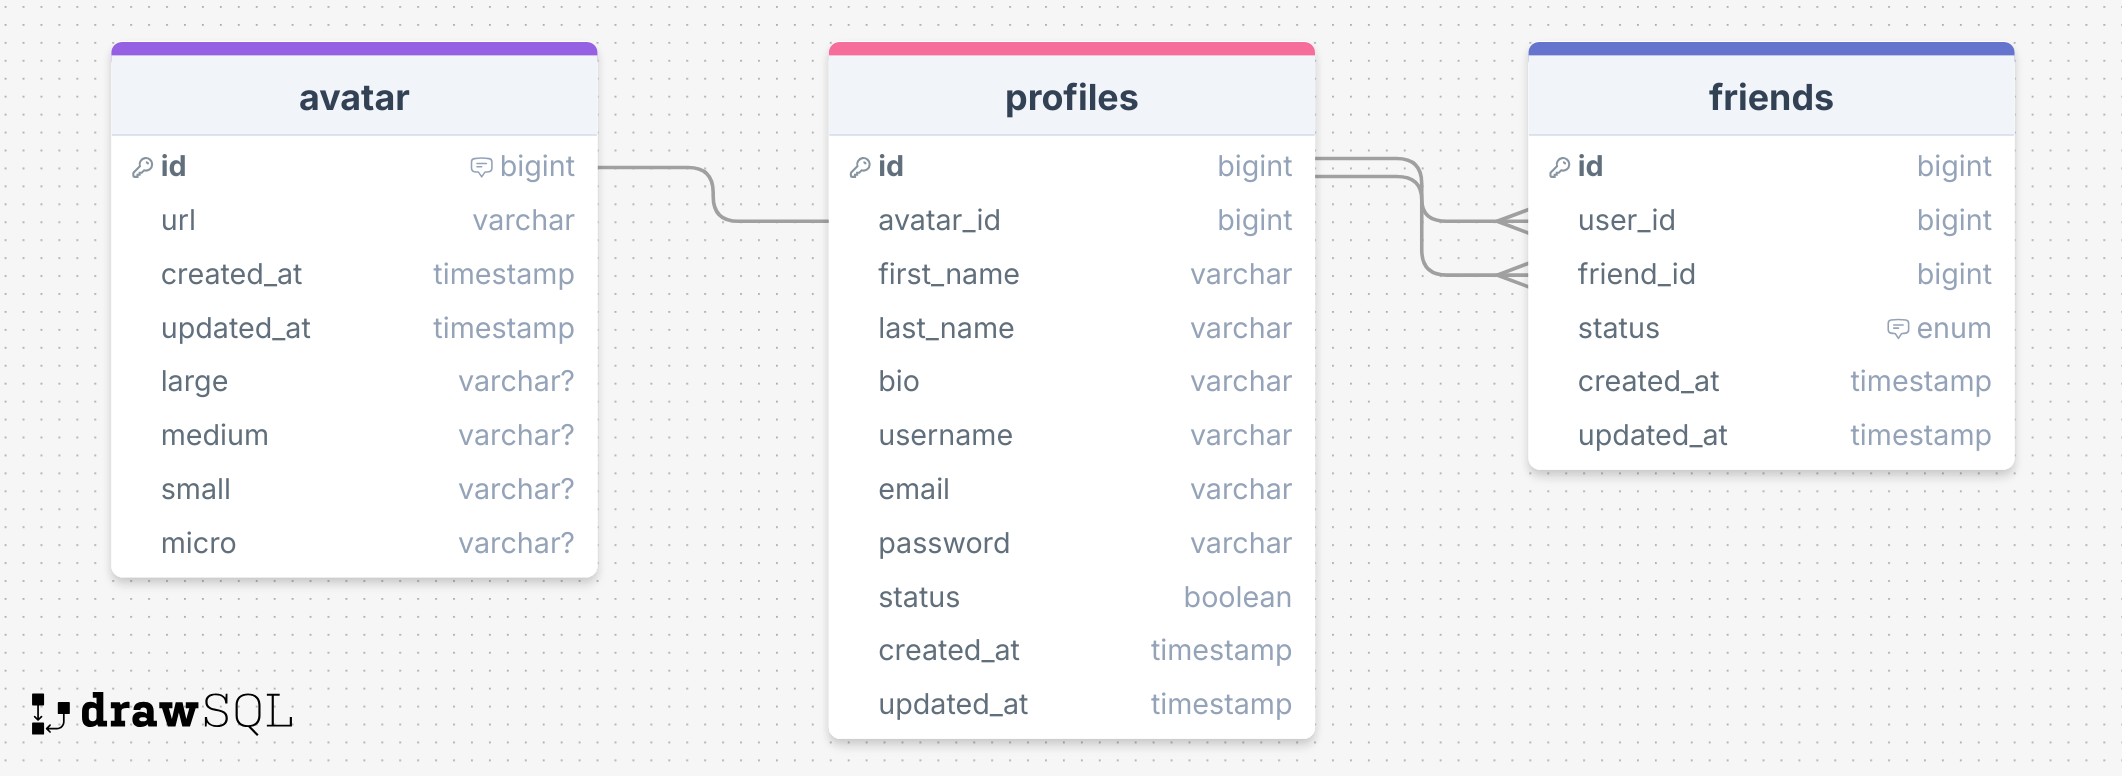
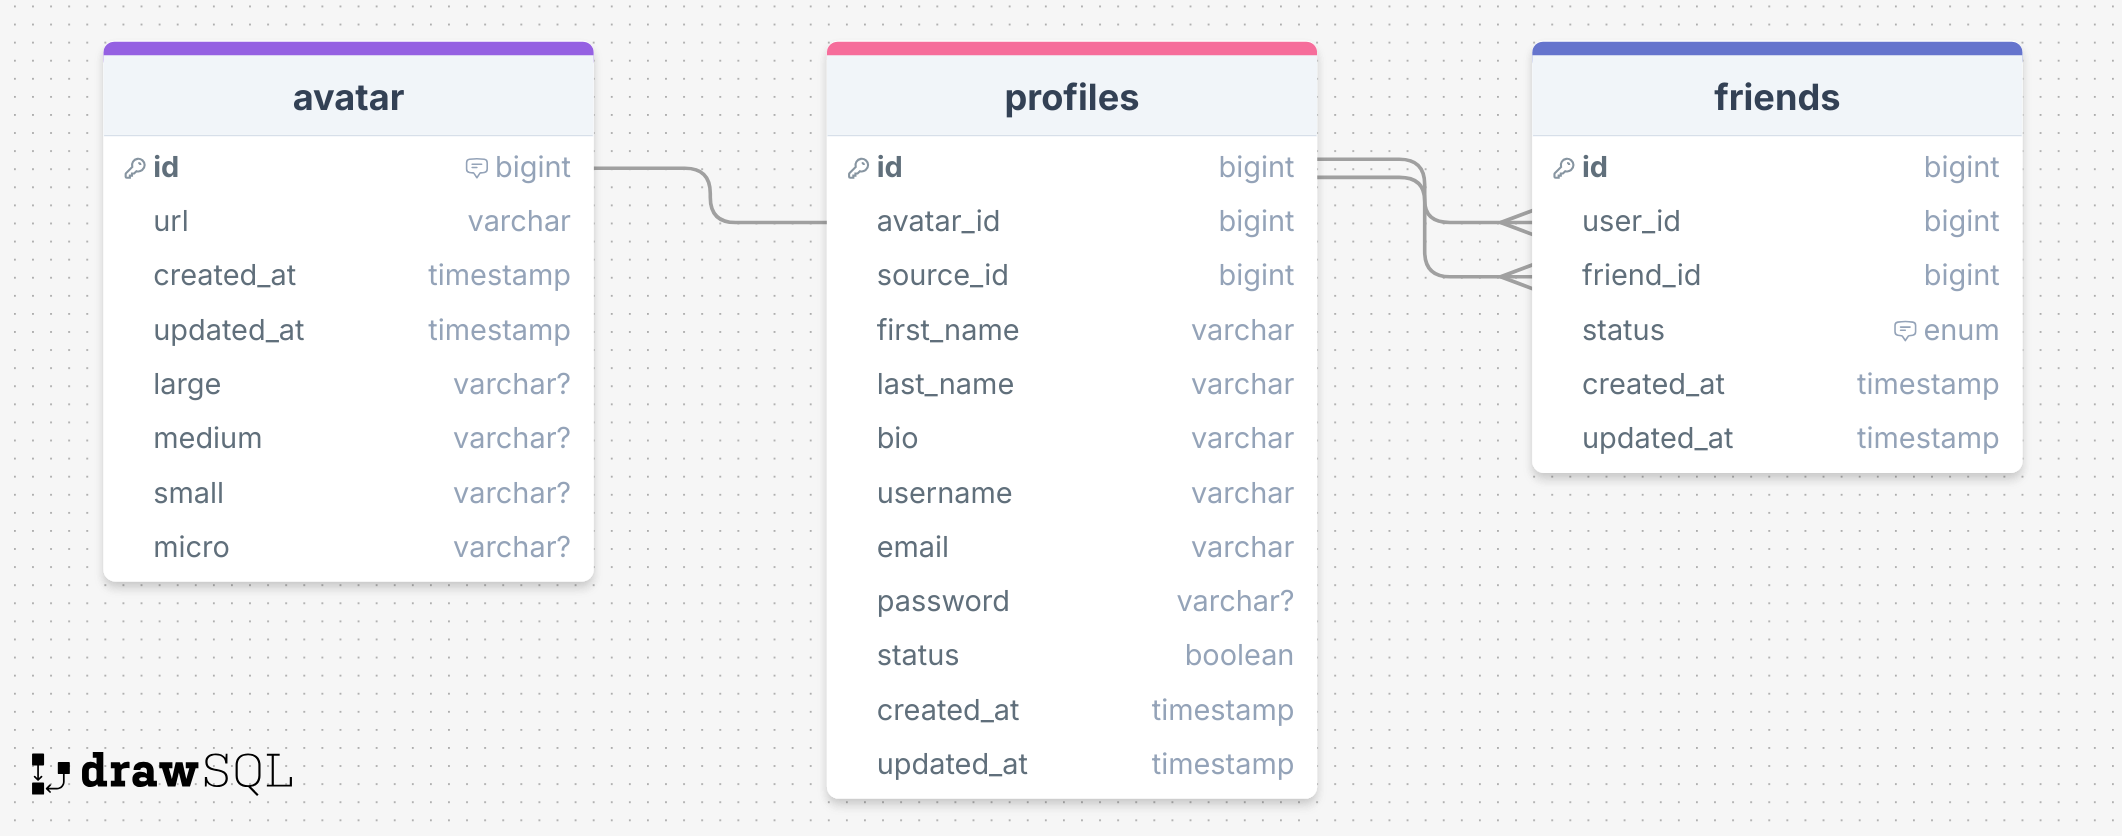
oauth added & user data added db

diff --git a/project/dumendenfront/app/auth/intra-callback/page.tsx b/project/dumendenfront/app/auth/intra-callback/page.tsx
@@ -1,0 +1,24 @@
+type Props = {
+  searchParams: { code?: string };
+};
+
+export default async function callback({ searchParams: { code } }: Props) {
+  const response = await fetch(
+    `http://apigateway:8000/auth/intra-callback/?code=${code}`,
+    {
+      method: "POST",
+      headers: {
+        "Content-Type": "application/json",
+        "Accept-Language": "tr",
+      },
+      body: JSON.stringify({ code }),
+    }
+  );
+  const data = await response.json();
+  return (
+    <>
+      {code}
+      <pre>{JSON.stringify(data, null, 2)}</pre>
+    </>
+  );
+}

diff --git a/project/dumendenfront/app/page.tsx b/project/dumendenfront/app/page.tsx
@@ -1,4 +1,4 @@
-import Link from "next/link";
+import Link from "next/Link";
 import { Intra } from "./42intra";
 type Props = {
   searchParams: { code?: string };

diff --git a/project/auth_service/src/views.py b/project/auth_service/src/views.py
@@ -3,7 +3,6 @@ import logging
 import os
 import uuid
 
-from django.http import JsonResponse
 import requests
 from django.contrib.auth.hashers import make_password
 from django.core.exceptions import ValidationError
@@ -308,7 +307,7 @@ def intraCallback(request):
     api_url = os.environ.get("INTRA_API_URL")
     token_url = api_url + "/oauth/token"
     payload = {
-        "grant_type": "client_credentials",
+        "grant_type": "authorization_code",
         "client_id": os.environ.get("INTRA_UID"),
         "client_secret": os.environ.get("INTRA_SECRET"),
         "code": code,
@@ -324,24 +323,37 @@ def intraCallback(request):
     token_data = response.json()
     access_token = token_data.get("access_token")
 
-    user_info_url = api_url + "/v2/users/me"
-    headers = {"Authorization": f"Bearer {token_data.get('access_token')}"}
+    user_response = create_user(api_url, access_token)
+    if user_response.status_code != 200 and user_response.status_code != 201:
+        return ResponseService.create_error_response(
+            Messages.FAILED_TO_RETRIEVE_USER, language, user_response
+        )
+
+    response_data = user_response.json()
+    # TODO: response data verilerini db ye aktar
+    return ResponseService.create_success_response(str(response_data))
+
+
+def create_user(api_url, access_token):
+    user_info_url = api_url + "/v2/me"
+    headers = {"Authorization": f"Bearer {access_token}"}
 
     user_response = requests.request("GET", user_info_url, headers=headers)
 
-    logger.fatal("+++++++++++++++++++++++++++++++++++++++++")
-    logger.fatal("Requesting user info from " + user_info_url)
-    logger.fatal("token data " + str(token_data))
-    logger.fatal("access_token " + access_token)
-    logger.fatal("user response " + str(user_response))
-    logger.fatal("+++++++++++++++++++++++++++++++++++++++++")
-
     if user_response.status_code != 200:
-        # return JsonResponse({"access_token" : access_token}, status=user_response.status_code)
-        return ResponseService.create_error_response(
-            Messages.FAILED_TO_RETRIEVE_USER, language, user_response.status_code
-        )
+        return user_response.status_code
 
-    user_data = user_response.json()
+    json_data = user_response.json()
+    user_service_url = os.environ.get("USER_SERVICE_URL")
+    user_create_url = f"{user_service_url}/user/intra_create/"
+    user_create_data = {
+        "username": json_data.get("login"),
+        "email": json_data.get("email"),
+        "first_name": json_data.get("first_name"),
+        "last_name": json_data.get("last_name"),
+        "source": "intra",
+        "source_id": json_data.get("id"),
+        "avatar": json_data.get("image"),
+    }
 
-    return ResponseService.create_success_response(user_data)
+    return requests.post(user_create_url, json=user_create_data)

diff --git a/project/user_service/src/views.py b/project/user_service/src/views.py
@@ -1,6 +1,60 @@
+import json
+import logging
+
 from django.http import JsonResponse
-from django.shortcuts import render
+
+from .Messages import Messages
+from .ResponseService import ResponseService
+from .models import Avatar, Users
+
+logger = logging.getLogger(__name__)
 
 
-def deneme(request):
-    return JsonResponse({"message": "Hello from user service!"})
+def intra_create(request):
+    language = request.headers.get("Accept-Language", "en")
+    if request.method != "POST":
+        return ResponseService.create_error_response(
+            Messages.INVALID_REQUEST_METHOD, language, 405
+        )
+    data = json.loads(request.body)
+
+    username = data.get("username")
+    email = data.get("email")
+
+    if Users.objects.filter(username=username).exists():
+        return ResponseService.create_error_response(
+            Messages.USERNAME_ALREADY_EXISTS, language, 400
+        )
+    
+    if Users.objects.filter(email=email).exists():
+        return ResponseService.create_error_response(
+            Messages.EMAIL_ALREADY_EXISTS, language, 400
+        )
+    
+    first_name = data.get("first_name")
+    last_name = data.get("last_name")
+    source_id = data.get("source_id")
+    source = data.get("source")
+    avatar_obj = data.get("avatar")
+
+    avatar = Avatar.objects.create(
+        url=avatar_obj.get("link"),
+        large_url=avatar_obj.get("versions").get("large"),
+        medium_url=avatar_obj.get("versions").get("medium"),
+        small_url=avatar_obj.get("versions").get("small"),
+        micro_url=avatar_obj.get("versions").get("micro"),
+    )
+
+    user = Users.objects.create(
+        username=username,
+        email=email,
+        first_name=first_name,
+        last_name=last_name,
+        source_id=source_id,
+        source=source,
+        avatar_id=avatar,
+    )
+
+    logger.fatal(f"User created: {str(user)}")
+
+    return JsonResponse(data, status=201)

diff --git a/project/user_service/user_service/settings.py b/project/user_service/user_service/settings.py
@@ -1,17 +1,6 @@
-"""
-Django settings for user_service project.
 
-Generated by 'django-admin startproject' using Django 5.1.
-
-For more information on this file, see
-https://docs.djangoproject.com/en/5.1/topics/settings/
-
-For the full list of settings and their values, see
-https://docs.djangoproject.com/en/5.1/ref/settings/
-"""
-
-from pathlib import Path
 import os
+from pathlib import Path
 
 # Build paths inside the project like this: BASE_DIR / 'subdir'.
 BASE_DIR = Path(__file__).resolve().parent.parent
@@ -28,7 +17,6 @@ DEBUG = True
 
 ALLOWED_HOSTS = ['*']
 
-
 # Application definition
 
 INSTALLED_APPS = [
@@ -38,6 +26,7 @@ INSTALLED_APPS = [
     'django.contrib.sessions',
     'django.contrib.messages',
     'django.contrib.staticfiles',
+    'rest_framework',
     'src',
 ]
 
@@ -45,7 +34,7 @@ MIDDLEWARE = [
     'django.middleware.security.SecurityMiddleware',
     'django.contrib.sessions.middleware.SessionMiddleware',
     'django.middleware.common.CommonMiddleware',
-    'django.middleware.csrf.CsrfViewMiddleware',
+    # 'django.middleware.csrf.CsrfViewMiddleware',
     # 'django.contrib.auth.middleware.AuthenticationMiddleware',
     'django.contrib.messages.middleware.MessageMiddleware',
     'django.middleware.clickjacking.XFrameOptionsMiddleware',
@@ -127,3 +116,24 @@ STATIC_URL = 'static/'
 # https://docs.djangoproject.com/en/5.1/ref/settings/#default-auto-field
 
 DEFAULT_AUTO_FIELD = 'django.db.models.BigAutoField'
+
+LOGGING = {
+    "version": 1,
+    "disable_existing_loggers": False,
+    "handlers": {
+        "console": {
+            "class": "logging.StreamHandler",
+        },
+    },
+    "root": {
+        "handlers": ["console"],
+        "level": "WARNING",
+    },
+    "loggers": {
+        "django": {
+            "handlers": ["console"],
+            "level": os.getenv("DJANGO_LOG_LEVEL", "INFO"),
+            "propagate": False,
+        },
+    },
+}

diff --git a/project/user_service/src/models.py b/project/user_service/src/models.py
@@ -1,16 +1,18 @@
 from django.db import models
 
 
-class Profiles(models.Model):
+class Users(models.Model):
     id = models.AutoField(primary_key=True)
     avatar_id = models.ForeignKey('Avatar', on_delete=models.CASCADE)
+    source_id = models.CharField(max_length=50)
     first_name = models.CharField(max_length=50)
     last_name = models.CharField(max_length=50)
     bio = models.TextField(max_length=255)
     username = models.CharField(max_length=20, unique=True)
     email = models.EmailField(unique=True)
-    password = models.CharField(max_length=50)
+    password = models.CharField(max_length=50, null=True)
     status = models.BooleanField(default=True)
+    source = models.CharField(max_length=50)
     created_at = models.DateTimeField(auto_now_add=True)
     updated_at = models.DateTimeField(auto_now=True)
 
@@ -31,8 +33,8 @@ class Friends(models.Model):
         ('rejected', 'Rejected'),
     ]
     id = models.AutoField(primary_key=True)
-    user_id = models.ForeignKey(Profiles, related_name='friends_of_user', on_delete=models.CASCADE)
-    friend_id = models.ForeignKey(Profiles, related_name='friends_of_friend', on_delete=models.CASCADE)
+    user_id = models.ForeignKey(Users, related_name='friends_of_user', on_delete=models.CASCADE)
+    friend_id = models.ForeignKey(Users, related_name='friends_of_friend', on_delete=models.CASCADE)
     status = models.CharField(max_length=20, choices=FRIENDS_STATUS_CHOICES)
     created_at = models.DateTimeField(auto_now_add=True)
     updated_at = models.DateTimeField(auto_now=True)

diff --git a/project/user_service/src/ResponseService.py b/project/user_service/src/ResponseService.py
@@ -1,0 +1,30 @@
+from django.http import JsonResponse
+
+from .Messages import Messages
+
+
+class ResponseService:
+    def create_success_response(data):
+        return JsonResponse(
+            {"status": True, "status_code": 200, "data": data}, status=200
+        )
+
+    def create_error_response(error_message, language, status_code):
+        return JsonResponse(
+            {
+                "status": False,
+                "status_code": status_code,
+                "error": Messages.get_message(error_message, language),
+            },
+            status=status_code,
+        )
+
+    def create_response(bool, status, message, language, status_code):
+        return JsonResponse(
+            {
+                "status": bool,
+                "status_code": status_code,
+                "data": {status: Messages.get_message(message, language)},
+            },
+            status=status_code,
+        )

diff --git a/project/user_service/user_service/urls.py b/project/user_service/user_service/urls.py
@@ -1,21 +1,7 @@
-"""
-URL configuration for user_service project.
 
-The `urlpatterns` list routes URLs to views. For more information please see:
-    https://docs.djangoproject.com/en/5.1/topics/http/urls/
-Examples:
-Function views
-    1. Add an import:  from my_app import views
-    2. Add a URL to urlpatterns:  path('', views.home, name='home')
-Class-based views
-    1. Add an import:  from other_app.views import Home
-    2. Add a URL to urlpatterns:  path('', Home.as_view(), name='home')
-Including another URLconf
-    1. Import the include() function: from django.urls import include, path
-    2. Add a URL to urlpatterns:  path('blog/', include('blog.urls'))
-"""
-from django.urls import re_path
+from django.urls import path
 from src import views
+
 urlpatterns = [
-    re_path('user/', views.deneme),
+    path('user/intra_create/', views.intra_create),
 ]

diff --git a/project/user_service/src/Messages.py b/project/user_service/src/Messages.py
@@ -1,0 +1,12 @@
+from enum import Enum
+
+class Messages(Enum):
+    EMAIL_ALREADY_EXISTS = ("Email already exists", "E-posta zaten mevcut")
+    USERNAME_ALREADY_EXISTS = ("Username already exists", "Kullanıcı adı zaten mevcut")
+    USER_CREATED_SUCCESSFULLY = ("User created successfully. Please verify your email.", "Kullanıcı başarıyla oluşturuldu. Lütfen e-postanızı doğrulayın")
+    INVALID_REQUEST_METHOD = ("Invalid request method", "Geçersiz istek metodu")
+
+
+    def get_message(message_enum, language="en"):
+        lang_index = {'en' : 0, 'tr' : 1}
+        return message_enum.value[lang_index[language]]

diff --git a/project/auth_service/auth_service/settings.py b/project/auth_service/auth_service/settings.py
@@ -1,6 +1,6 @@
 
-from pathlib import Path
 import os
+from pathlib import Path
 
 # Build paths inside the project like this: BASE_DIR / 'subdir'.
 BASE_DIR = Path(__file__).resolve().parent.parent
@@ -40,8 +40,6 @@ MIDDLEWARE = [
     'django.middleware.clickjacking.XFrameOptionsMiddleware',
 ]
 
-# CSRF_TRUSTED_ORIGINS = ['http://localhost:8000']
-
 ROOT_URLCONF = 'auth_service.urls'
 
 TEMPLATES = [
@@ -76,7 +74,6 @@ DATABASES = {
         'PORT': '5432',
     }
 }
-
 
 
 # Password validation
